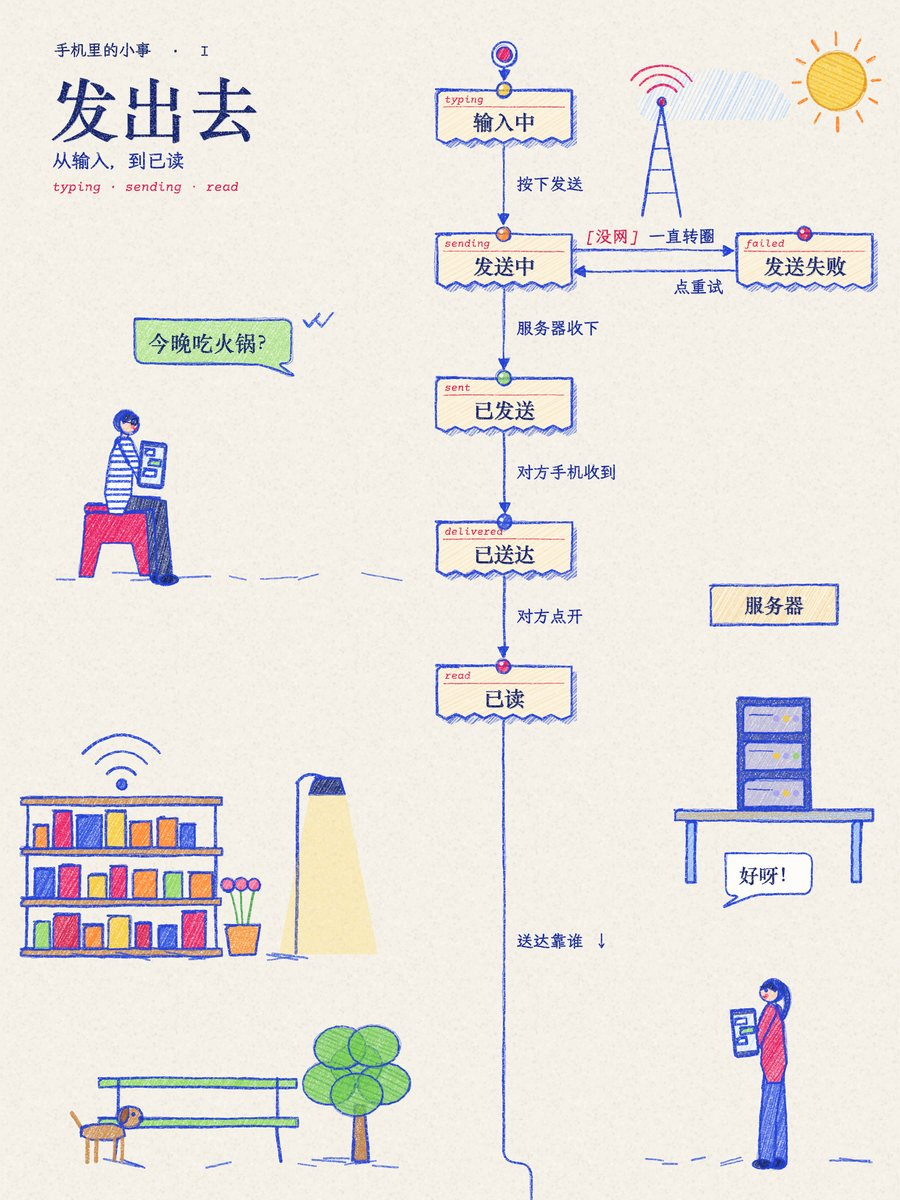
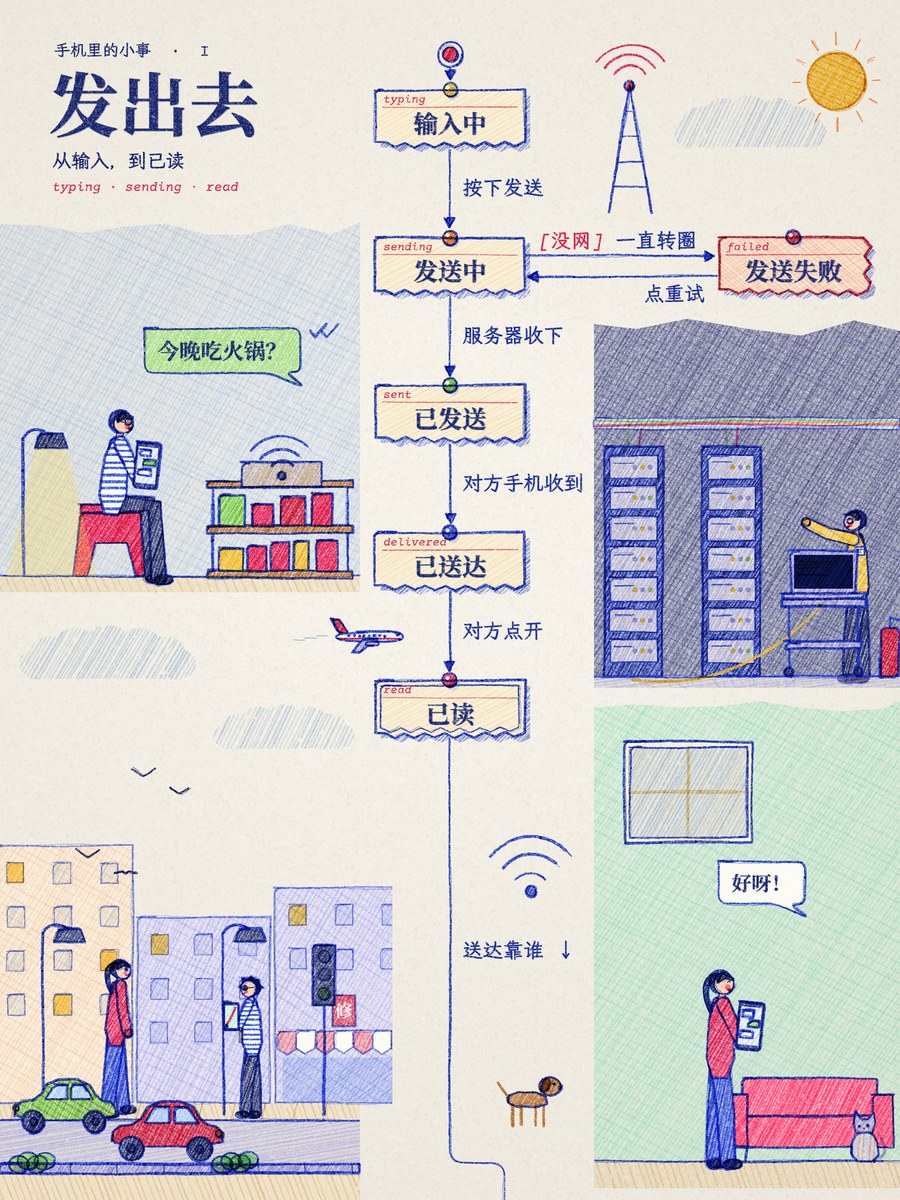
v2.0.0: README images from the redrawn examples, a pen-and-pencil example sheet, version

diff --git a/README.md b/README.md
@@ -25,6 +25,8 @@
   - 八种卡片画法：票据、便签、木牌、圆角卡、铜牌、吊牌、玻璃片、毛毡补丁；父状态可以画成店面；箭头可以是红线或金线；等另一条线的条件，用那条线的颜色写；
   - “钢笔彩铅”主题；
   - 聚光、显微镜小窗、跟着音乐卡点，以及作品集页。
+<img src="docs/images/boba-pencil.jpg" width="560" alt="钢笔彩铅主题下的四种图：票据串红线、店面里的便签、按线着色的两条线、规则图例和坏路径">
+
 - **九种主题**：蓝蜡笔（默认）、钢笔彩铅、夜读、牛皮纸、孔版、亚麻刺绣、四季，也可以由品牌色生成。
 - **代码进，片子出**：XState、Mermaid、SCXML、PlantUML，或 /statechart 技能的输出，都能 `import` 成片子的骨架；片子里的图也能 `export` 回去。
 - **动起来更像手做**：
